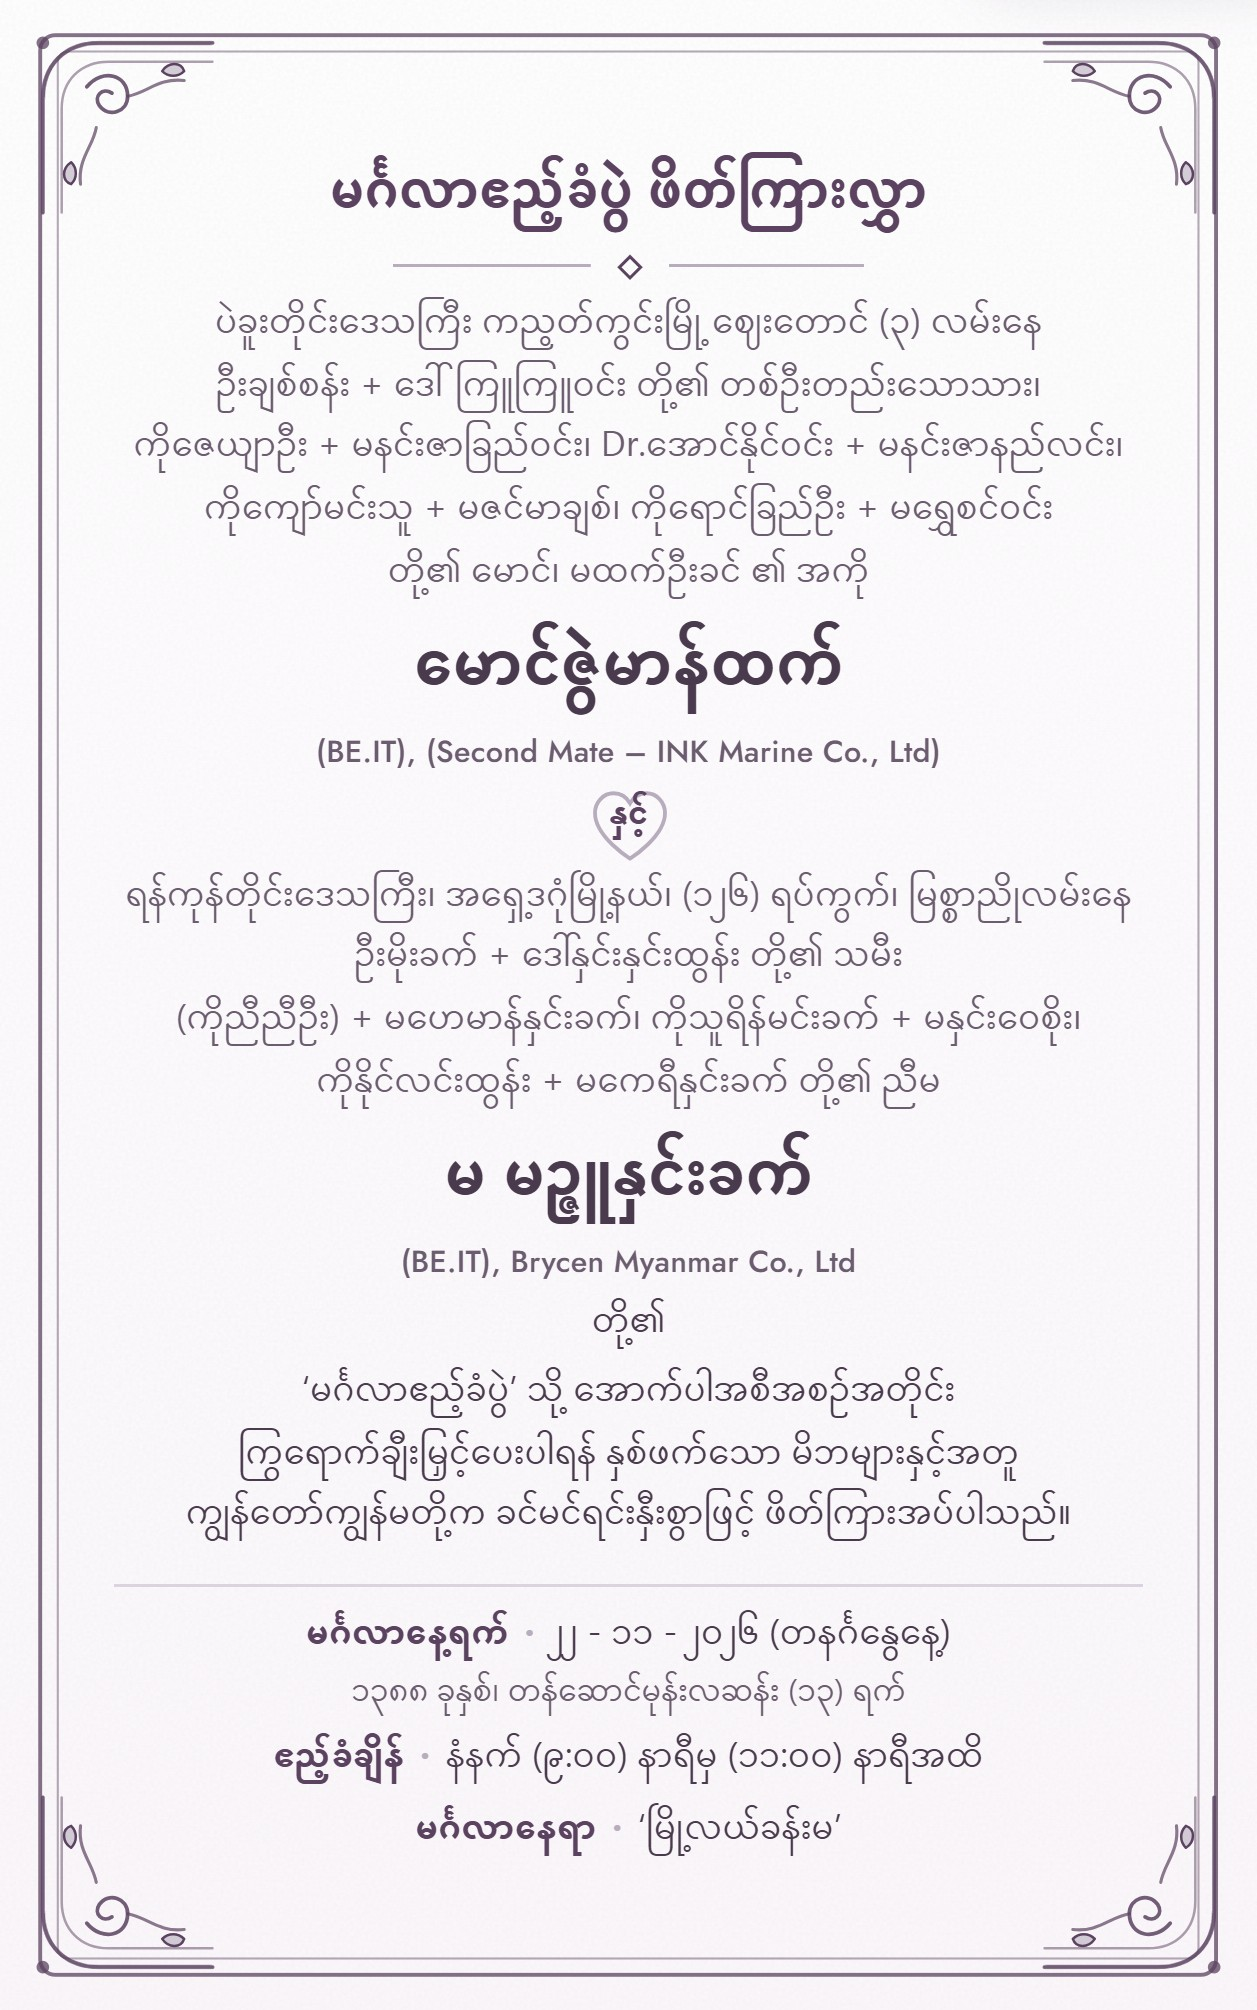
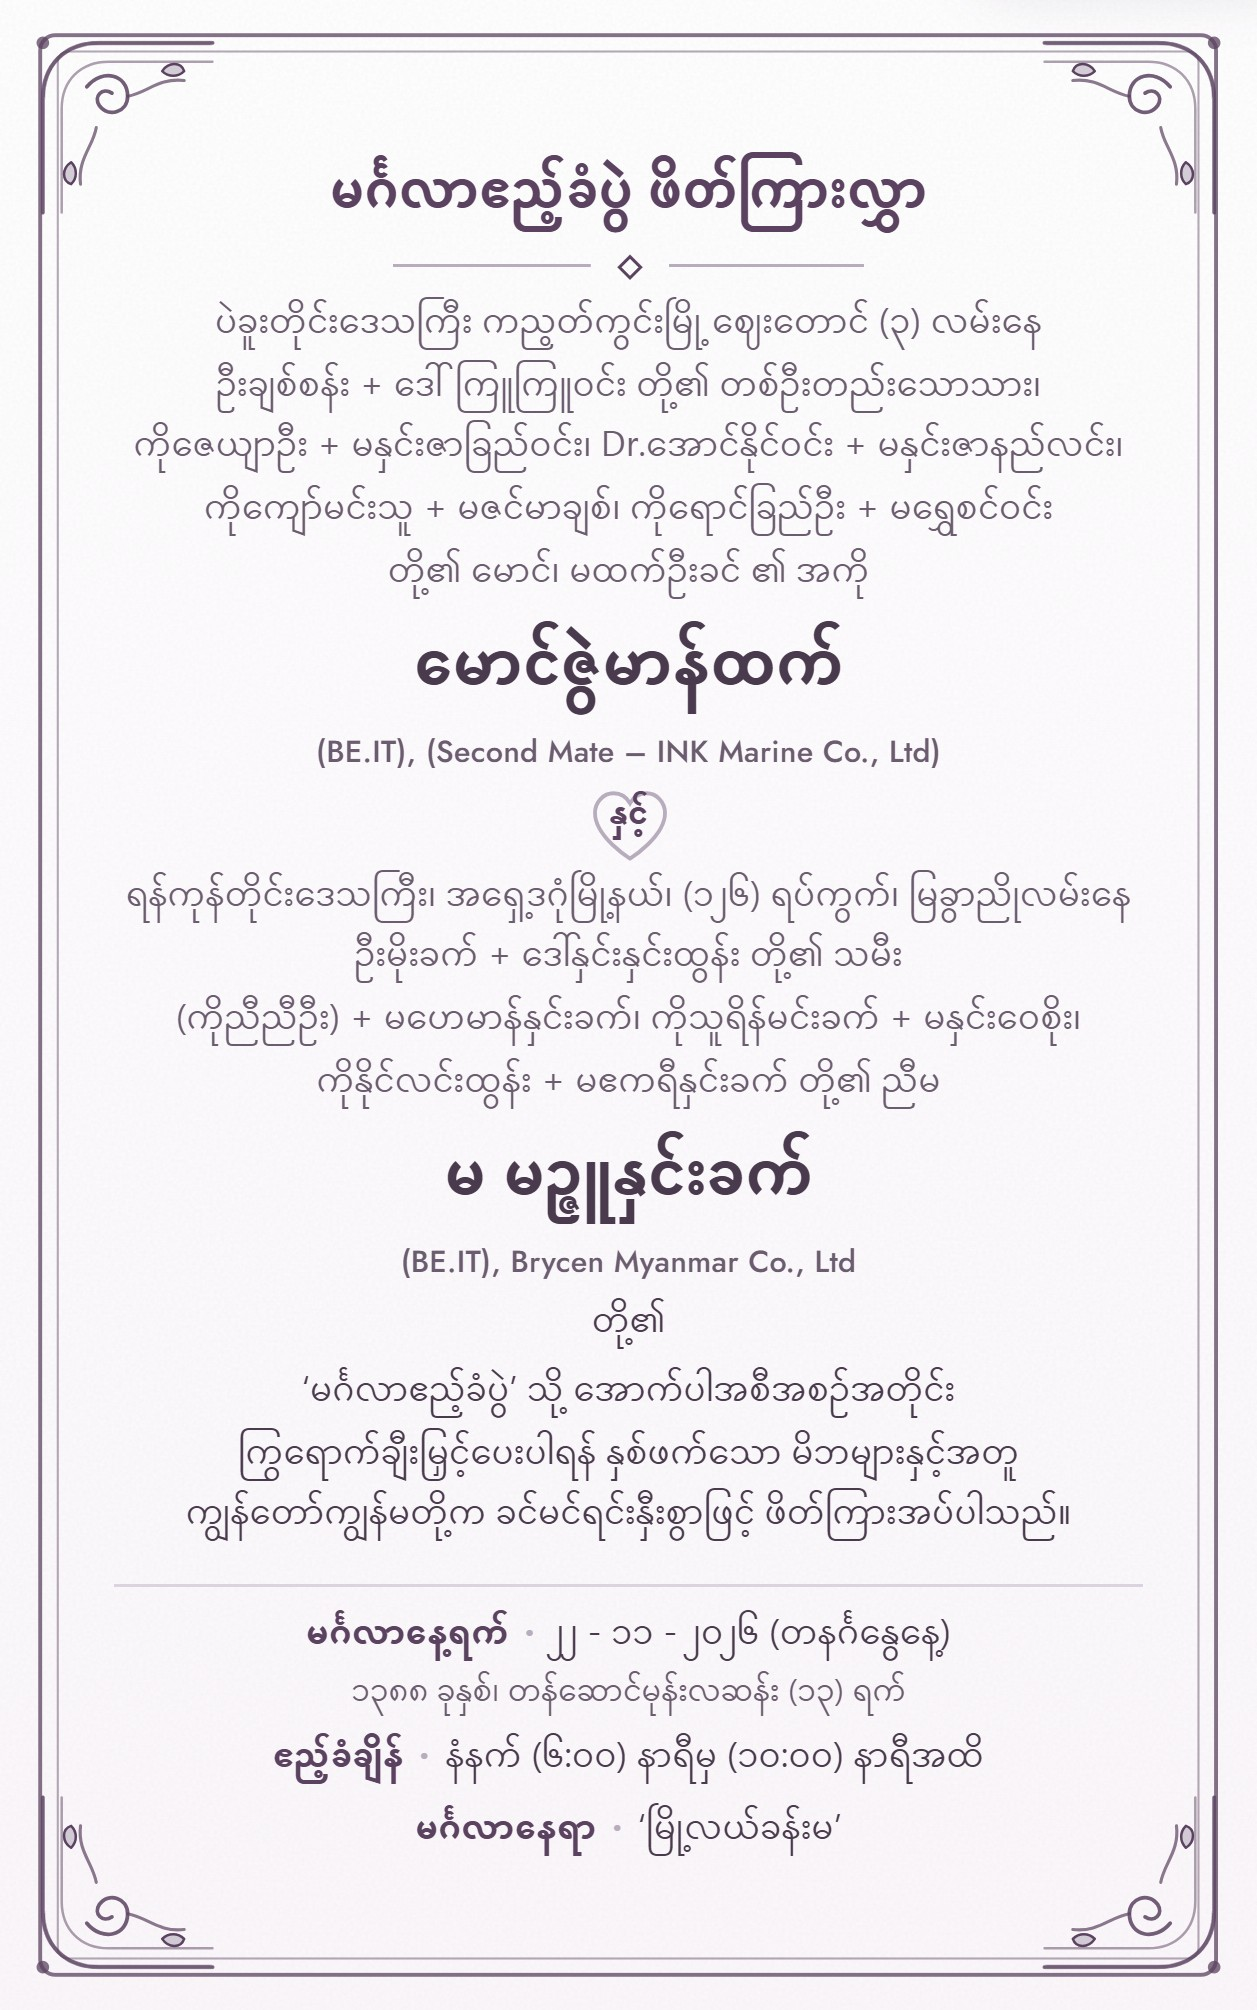
Update wedding reception details, adjust countdown time, and add pre-commit hook for image rendering

diff --git a/reception.html b/reception.html
@@ -4,14 +4,14 @@
   <meta charset="utf-8">
   <meta name="viewport" content="width=device-width, initial-scale=1, viewport-fit=cover">
   <title>Mintzu &amp; Zwe · Wedding Reception</title>
-  <meta name="description" content="Mintzu Hnin Khat and Zwe Marn Htet invite you to their wedding reception on Sunday, 22 November 2026, 9 to 11 AM, at Myo Lal Hall.">
+  <meta name="description" content="Mintzu Hnin Khat and Zwe Marn Htet invite you to their wedding reception on Sunday, 22 November 2026, 6 to 10 AM, at Myo Lal Hall.">
   <meta name="robots" content="noindex, nofollow">
   <meta name="theme-color" content="#F5F1F6">
 
   <!-- Link previews. Crawlers need full https:// URLs: set these to the live address once it has one. -->
   <meta property="og:type" content="website">
   <meta property="og:title" content="Mintzu &amp; Zwe · Wedding Reception">
-  <meta property="og:description" content="Sunday, 22 November 2026 · 9 to 11 AM · Myo Lal Hall. Tap to open your invitation.">
+  <meta property="og:description" content="Sunday, 22 November 2026 · 6 to 10 AM · Myo Lal Hall. Tap to open your invitation.">
   <meta property="og:image" content="/public/images/reception/og-reception.jpg">
   <meta name="twitter:card" content="summary_large_image">
 
@@ -147,7 +147,7 @@
                 <p class="cf-family">ရန်ကုန်တိုင်းဒေသကြီး၊ အရှေ့ဒဂုံမြို့နယ်၊ (၁၂၆) ရပ်ကွက်၊ မြခွာညိုလမ်းနေ<br>
                   ဦးမိုးခက် + ဒေါ်နှင်းနှင်းထွန်း တို့၏ သမီး<br>
                   (ကိုညီညီဦး) + မဟေမာန်နှင်းခက်၊ ကိုသူရိန်မင်းခက် + မနှင်းဝေစိုး၊<br>
-                  ကိုနိုင်လင်းထွန်း + မကေရီနှင်းခက် တို့၏ ညီမ</p>
+                  ကိုနိုင်လင်းထွန်း + မဧကရီနှင်းခက် တို့၏ ညီမ</p>
                 <p class="cf-name">မ မဉ္ဇူနှင်းခက်</p>
                 <p class="cf-work">(BE.IT), Brycen Myanmar Co., Ltd</p>
                 <p class="cf-of">တို့၏</p>
@@ -156,7 +156,7 @@
                   ကျွန်တော်ကျွန်မတို့က ခင်မင်ရင်းနှီးစွာဖြင့် ဖိတ်ကြားအပ်ပါသည်။</p>
                 <dl class="cf-plan">
                   <div><dt>မင်္ဂလာနေ့ရက်</dt><dd>၂၂ - ၁၁ - ၂၀၂၆ (တနင်္ဂနွေနေ့)</dd><dd><small>၁၃၈၈ ခုနှစ်၊ တန်ဆောင်မုန်းလဆန်း (၁၃) ရက်</small></dd></div>
-                  <div><dt>ဧည့်ခံချိန်</dt><dd>နံနက် (၆:၀၀) နာရီမှ (၁၁:၀၀) နာရီအထိ</dd></div>
+                  <div><dt>ဧည့်ခံချိန်</dt><dd>နံနက် (၆:၀၀) နာရီမှ (၁၀:၀၀) နာရီအထိ</dd></div>
                   <div><dt>မင်္ဂလာနေရာ</dt><dd>‘မြို့လယ်ခန်းမ’</dd></div>
                 </dl>
               </div>
@@ -189,7 +189,7 @@
           <span class="t-my">လမ်းညွှန်</span><span class="t-en">Directions</span>
         </a>
         <a class="action" id="add-calendar" href="/public/mintzu-zwe-reception.ics"
-           data-google="https://calendar.google.com/calendar/render?action=TEMPLATE&amp;text=Wedding%20Reception%20of%20Mintzu%20%26%20Zwe&amp;dates=20261122T023000Z%2F20261122T043000Z&amp;details=Mintzu%20Hnin%20Khat%20and%20Zwe%20Marn%20Htet%20invite%20you%20to%20their%20wedding%20reception.%20Map%3A%20https%3A%2F%2Fmaps.app.goo.gl%2FkDiCbD2yMzm9UhEr6&amp;location=Myo%20Lal%20Hall">
+           data-google="https://calendar.google.com/calendar/render?action=TEMPLATE&amp;text=Wedding%20Reception%20of%20Mintzu%20%26%20Zwe&amp;dates=20261121T233000Z%2F20261122T033000Z&amp;details=Mintzu%20Hnin%20Khat%20and%20Zwe%20Marn%20Htet%20invite%20you%20to%20their%20wedding%20reception.%20Map%3A%20https%3A%2F%2Fmaps.app.goo.gl%2FkDiCbD2yMzm9UhEr6&amp;location=Myo%20Lal%20Hall">
           <svg class="icon" aria-hidden="true" focusable="false"><use href="/public/images/icons.svg#i-calendar"/></svg>
           <span class="t-my">ပြက္ခဒိန်တွင် မှတ်ရန်</span><span class="t-en">Add to calendar</span>
         </a>
@@ -206,7 +206,7 @@
     </section>
 
     <!-- ============ Countdown ============ -->
-    <section class="countdown rv" aria-labelledby="count-title" data-at="2026-11-22T09:00:00+06:30" data-until="2026-11-22T11:00:00+06:30">
+    <section class="countdown rv" aria-labelledby="count-title" data-at="2026-11-22T06:00:00+06:30" data-until="2026-11-22T10:00:00+06:30">
       <p class="label" id="count-title"><span class="t-my">မင်္ဂလာနေ့သို့</span><span class="t-en">Until our day</span></p>
       <ol class="count" id="count" aria-hidden="true">
         <li><b data-unit="d">00</b><span><span class="t-my">ရက်</span><span class="t-en">Days</span></span></li>

diff --git a/public/js/reception.js b/public/js/reception.js
@@ -462,7 +462,7 @@ function setUpMusic() {
 
 /* ---------- 6. Countdown ---------- */
 
-/* Counts down to 9 AM Myanmar time; during the reception and after it, a line in its place */
+/* Counts down to 6 AM Myanmar time; during the reception and after it, a line in its place */
 function setUpCountdown() {
   const box = $('.countdown');
   if (!box) return;

diff --git a/tools/render-card.py b/tools/render-card.py
@@ -1,0 +1,106 @@
+"""Redraw the reception card's download image from the page, so the two always match.
+
+    python tools/render-card.py
+
+The card's front in reception.html is set type (the printed card's words). Guests who tap
+"Save the card" get public/images/reception/invitation-card.jpg, a picture of that front, and
+link previews show public/images/reception/og-reception.jpg (the card beside our photo).
+This script serves the repo on a spare local port, opens reception.html in a headless browser
+(without its script, so the card shows face up with no envelope), photographs the card's front
+at 3x and rebuilds both images.
+
+The git pre-commit hook (tools/hooks/pre-commit, copied to .git/hooks/pre-commit) runs it
+whenever a commit touches the card, so the download can't fall out of step with the page.
+
+Needs Pillow and Playwright (pip install pillow playwright; it uses the Edge or Chrome already
+installed, else Playwright's own Chromium: python -m playwright install chromium).
+"""
+import functools
+import http.server
+import io
+import sys
+import threading
+from pathlib import Path
+
+from PIL import Image, ImageDraw, ImageFilter
+from playwright.sync_api import sync_playwright
+
+ROOT = Path(__file__).resolve().parent.parent
+OUT = ROOT / "public" / "images" / "reception"
+
+
+class QuietHandler(http.server.SimpleHTTPRequestHandler):
+    def log_message(self, *args):
+        pass
+
+
+def photograph_card():
+    handler = functools.partial(QuietHandler, directory=str(ROOT))
+    server = http.server.ThreadingHTTPServer(("127.0.0.1", 0), handler)
+    threading.Thread(target=server.serve_forever, daemon=True).start()
+    url = f"http://127.0.0.1:{server.server_address[1]}/reception.html"
+    try:
+        with sync_playwright() as p:
+            browser = None
+            for channel in ("msedge", "chrome", None):
+                try:
+                    browser = p.chromium.launch(channel=channel) if channel else p.chromium.launch()
+                    break
+                except Exception:
+                    continue
+            if browser is None:
+                raise RuntimeError("No browser for Playwright: install Edge or Chrome, or run "
+                                   "python -m playwright install chromium")
+            page = browser.new_context(viewport={"width": 500, "height": 900}, device_scale_factor=3).new_page()
+            # Without its script the page shows as it does without JavaScript: no envelope, card face up
+            page.route("**/reception.js", lambda route: route.abort())
+            page.goto(url, wait_until="load", timeout=30000)
+            page.evaluate("document.fonts.ready")
+            page.wait_for_timeout(400)
+            # The download is the card itself: no shadow, square corners, no light sweep
+            page.add_style_tag(content=".card-face{box-shadow:none!important;border-radius:0!important}"
+                                       ".card-front::after{display:none}")
+            page.wait_for_timeout(200)
+            png = page.locator(".card-front").screenshot(timeout=15000)
+            browser.close()
+    finally:
+        server.shutdown()
+    return Image.open(io.BytesIO(png)).convert("RGB")
+
+
+def link_preview(card):
+    """1200 x 630: the card beside our photo on the paper colour, for Facebook, Viber and the rest"""
+    og = Image.new("RGB", (1200, 630))
+    draw = ImageDraw.Draw(og)
+    for y in range(630):
+        t = y / 630
+        draw.line([(0, y), (1200, y)], fill=(int(245 - 12 * t), int(241 - 14 * t), int(246 - 10 * t)))
+    c = card.resize((round(card.width * 540 / card.height), 540), Image.LANCZOS)
+    photo = Image.open(OUT / "card-photo-900.jpg").convert("RGB")
+    photo = photo.resize((round(photo.width * 540 / photo.height), 540), Image.LANCZOS)
+    x1, x2 = 600 - c.width - 20, 620
+    shadow = Image.new("RGBA", (1200, 630), (0, 0, 0, 0))
+    sd = ImageDraw.Draw(shadow)
+    for x, im in ((x1, c), (x2, photo)):
+        sd.rectangle([x + 6, 59, x + im.width + 6, 599], fill=(0, 0, 0, 150))
+    shadow = shadow.filter(ImageFilter.GaussianBlur(14))
+    og.paste(shadow, (0, 0), shadow)
+    og.paste(c, (x1, 45))
+    og.paste(photo, (x2, 45))
+    ImageDraw.Draw(og).rectangle([x2 - 1, 44, x2 + photo.width, 585], outline=(184, 173, 190))
+    return og
+
+
+def main():
+    card = photograph_card()
+    card.save(OUT / "invitation-card.jpg", quality=90, optimize=True)
+    link_preview(card).save(OUT / "og-reception.jpg", quality=86, optimize=True)
+    print(f"render-card: invitation-card.jpg {card.size[0]}x{card.size[1]} and og-reception.jpg redrawn from reception.html")
+
+
+if __name__ == "__main__":
+    try:
+        main()
+    except Exception as error:   # the hook shows this and stops the commit
+        print(f"render-card: {error}", file=sys.stderr)
+        sys.exit(1)
